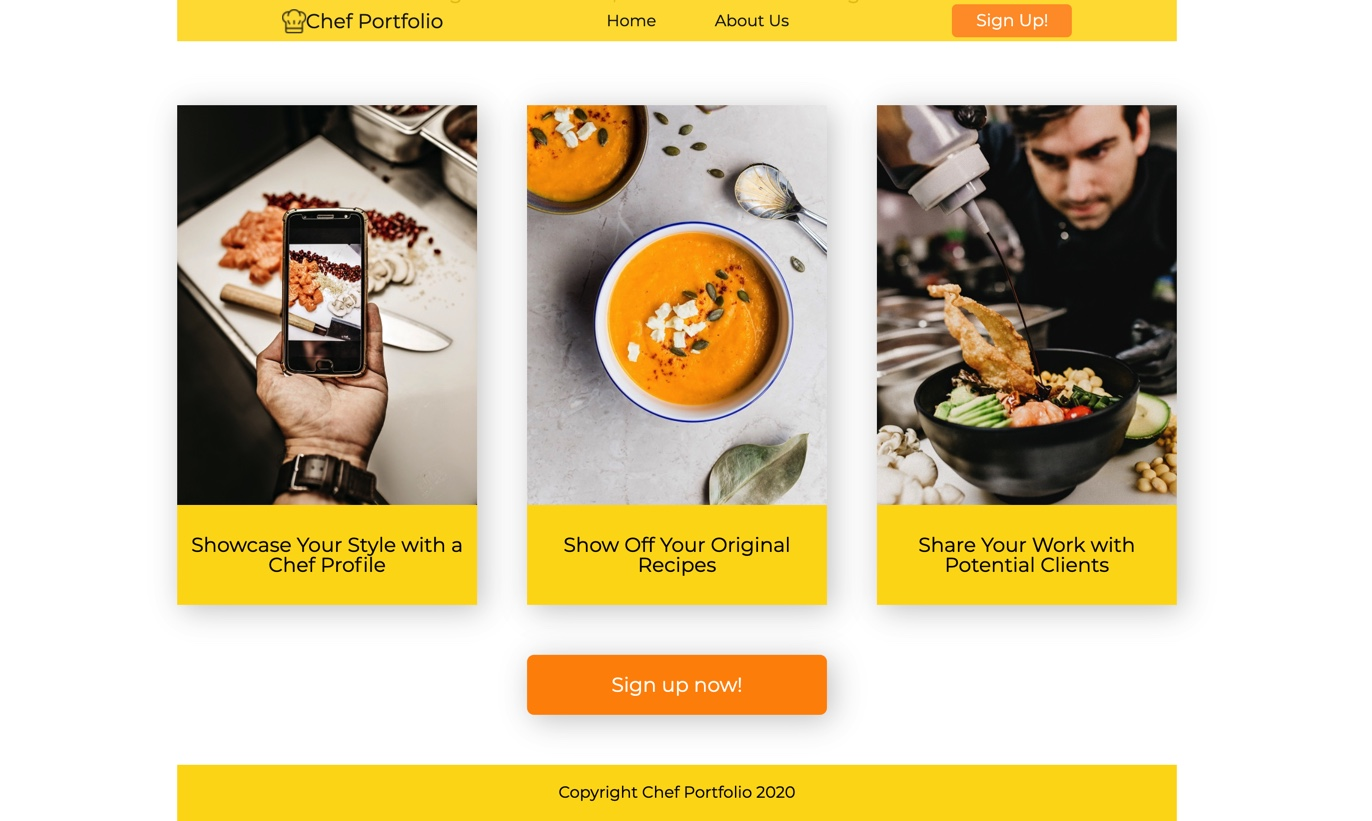
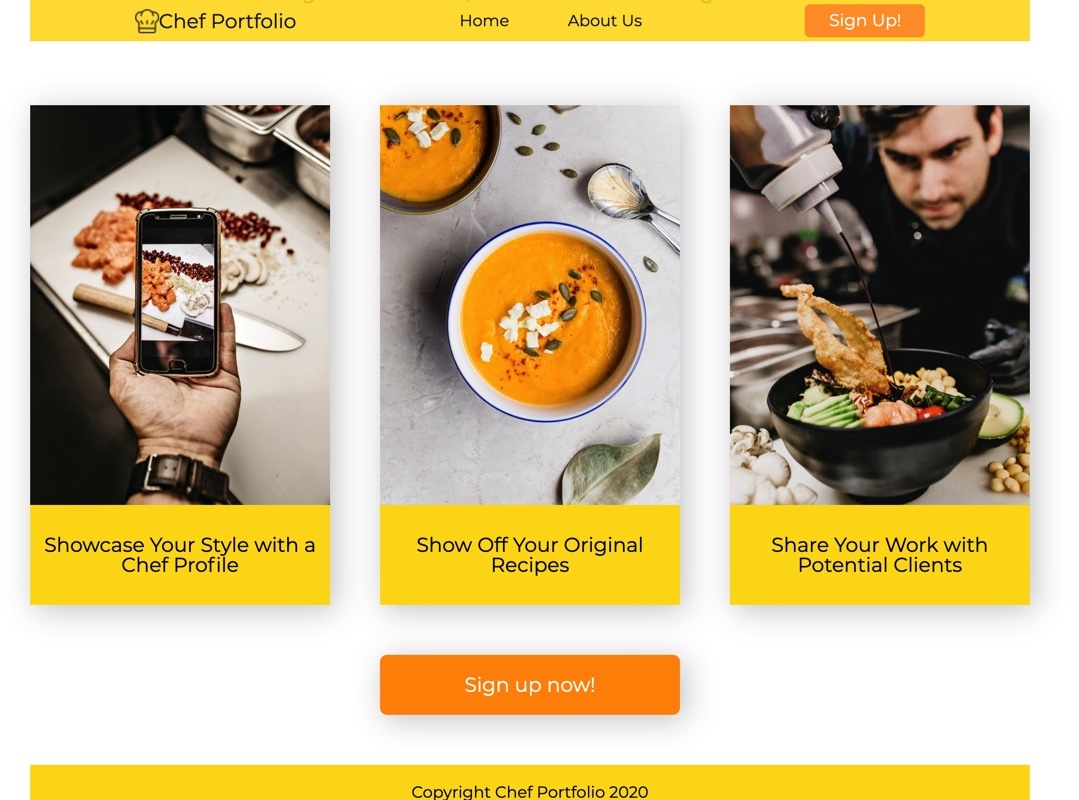
updated imgs

diff --git a/src/components/Projects.js b/src/components/Projects.js
@@ -1,7 +1,7 @@
 import React from 'react';
 import styled from 'styled-components';
 
-import kanshaapp from '../ProfilePic/kansha-app.jpeg';
+import kanshaapp from '../ProfilePic/KanshaImg2.jpeg';
 import simmerapp from '../ProfilePic/simmer-app.jpeg';
 import chefporfolioapp from '../ProfilePic/chefportfolio-app.jpeg';
 import topnineapp from '../ProfilePic/topnineapp.jpg';
@@ -26,7 +26,7 @@ import topnineapp from '../ProfilePic/topnineapp.jpg';
   `
   const CardImg = styled.img`
   width: 45%;
-  height: 17rem;
+  height: 21rem;
   padding: 1rem;
   `
 

diff --git a/src/components/NavBar.js b/src/components/NavBar.js
@@ -8,7 +8,7 @@ import styled from 'styled-components';
 const BigDiv = styled.div`
 position: fixed;
 top: 0;
-width: 80%;
+width: 85%;
 background-color: white;
 `
 
@@ -16,7 +16,7 @@ const NavDiv = styled.div`
 display:flex;
 justify-content: space-between;
 margin: 1.3rem 0rem;
-width: 80%;
+width: 85%;
 `
 const LeftNav = styled.div`
 display:flex;
